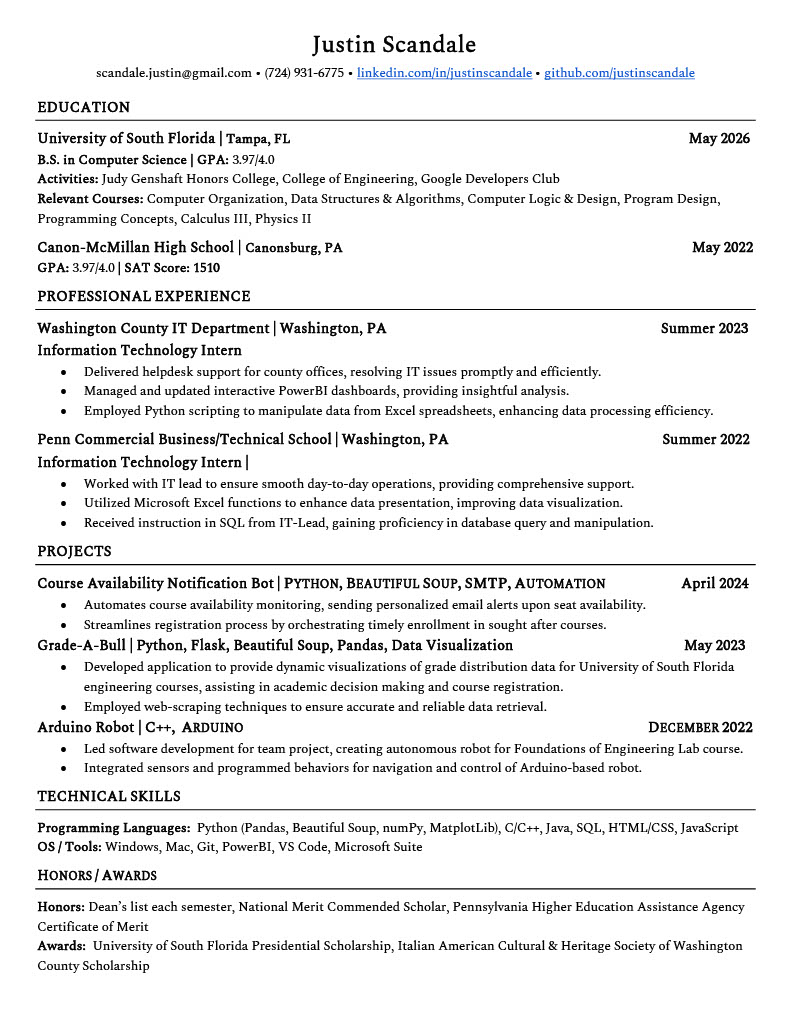
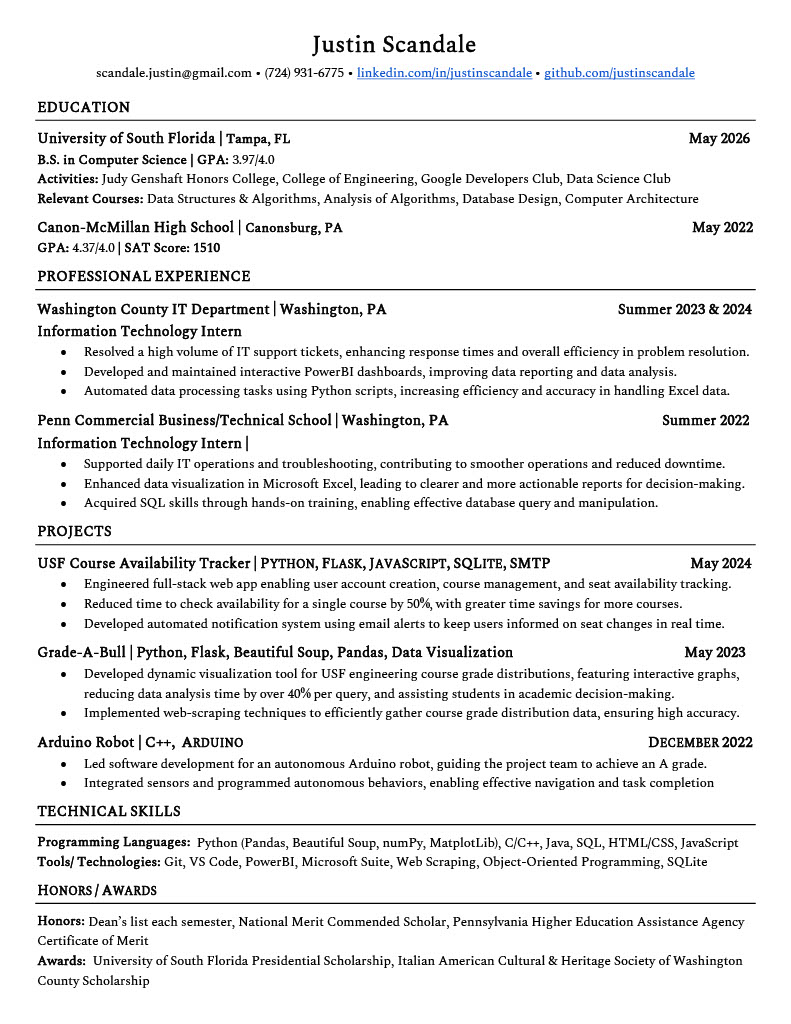
updated portfolio

Changed region(s): [[0.0303, 0.1562, 0.9709, 0.9688]]

diff --git a/portfolio/index.html b/portfolio/index.html
@@ -72,12 +72,20 @@
 								</header>
 								
 								<section>
+									<h3>USF Course Availability Tracker</h3>
+									<br>
+									<p>Full stack web application which allows students to create accounts, add their courses, and check the availability in real-time.
+									</p>
+									<h7>Technologies Used:</h7>
+									<p>Python; Flask; JavaScript; SQLite; SMTP</p>
+									<a href="https://justinscandale.pythonanywhere.com/"><h3>See Live Demo</h3></a>
+								</section>
+								<section>
 									<h3>Course Availability Notification Bot </h3>
 									<br>
 									<p>Python Automation Project for course availability monitoring, sending personalized email alerts upon seat availability.</p>
 									<h7>Technologies Used:</h7>
 									<p>Python; Beautiful Soup; SMTP; Automation </p>
-
 									<a href="https://github.com/justinscandale/Course_Availability_Notifications"><h3>See on Github</h3></a>
 								</section>
 
@@ -132,6 +140,12 @@
 								<strong>Courses:</strong>
 								<br>
 								Data Structures and Algorithms (C++)
+								<br>
+								Analysis of Algorithms
+								<br>
+								Database Design
+								<br>
+								Computer Architecture (RISV-V)
 								<br>
 								Program Design (C)
 								<br>
